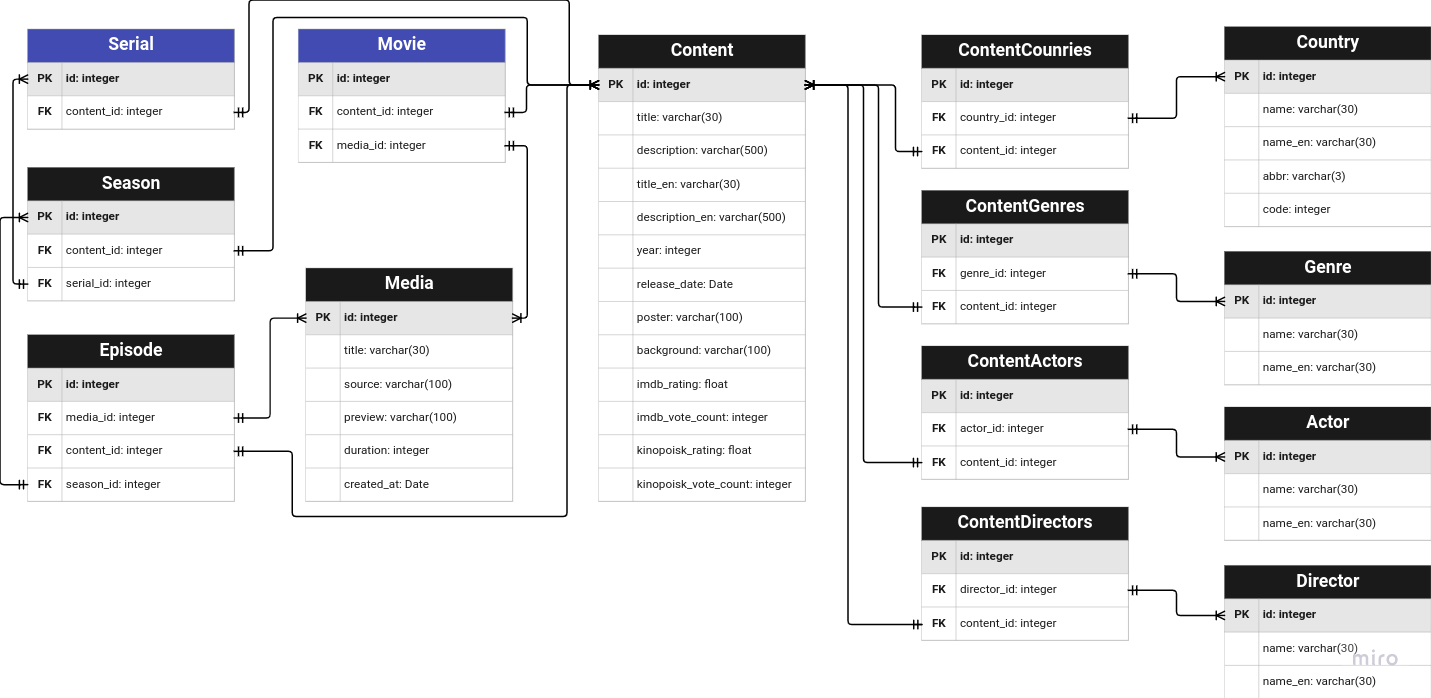
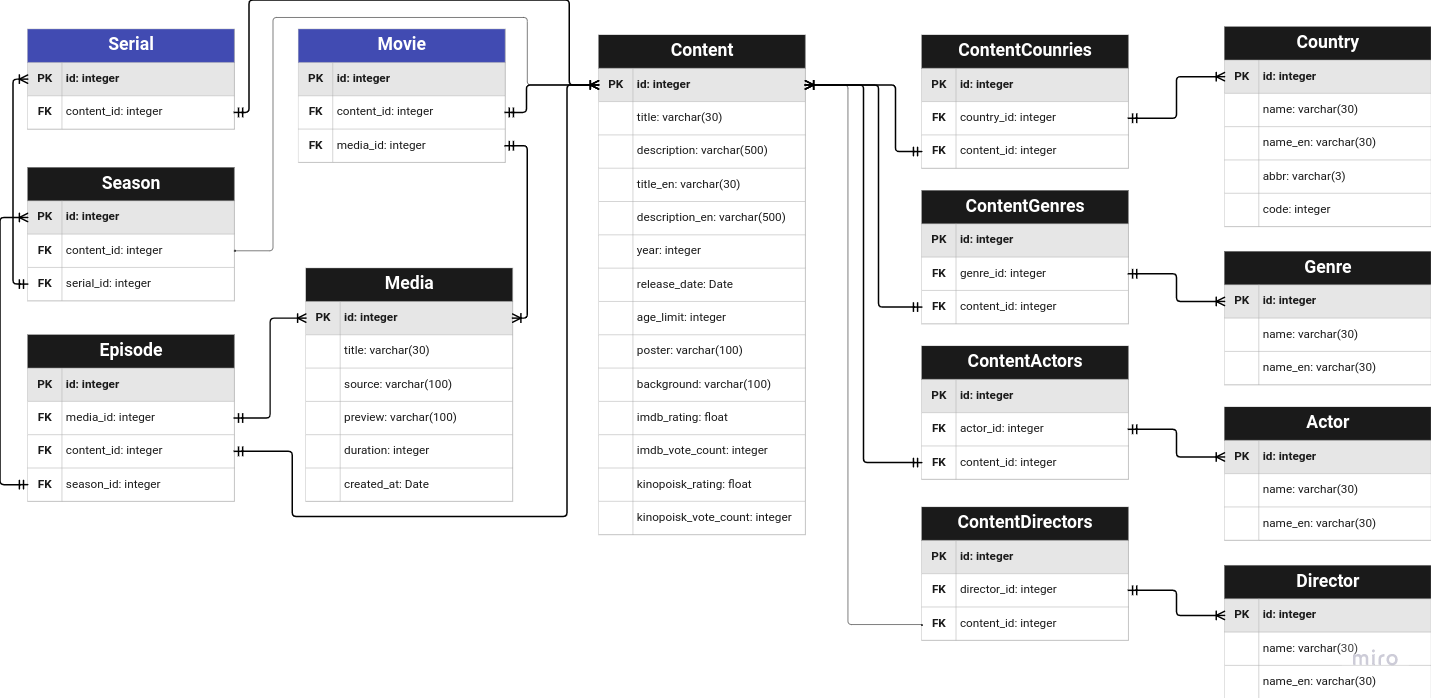
content api

diff --git a/docs/.vitepress/theme/components/Swagger.vue b/docs/.vitepress/theme/components/Swagger.vue
@@ -1,5 +1,5 @@
 <template>
-  <div class="swagger" :id="id"></div>
+  <div class='swagger' :id='id'></div>
 </template>
 
 <script setup>
@@ -17,6 +17,49 @@ onMounted(async () => {
   SwaggerUIBundle({
     dom_id: `#${props.id}`,
     url: props.url,
+    swagger: '2.0',
   });
 });
 </script>
+
+<style>
+.swagger-ui .opblock .opblock-summary-path {
+  max-width: 100%;
+  flex-grow: 1;
+}
+
+.swagger-ui .opblock .opblock-summary-description {
+  padding-right: 8px;
+  text-align: right;
+  overflow-wrap: anywhere;
+}
+.swagger-ui .information-container .info {
+  margin: 0;
+}
+
+.swagger-ui .information-container .info hgroup.main {
+  margin: 0;
+}
+
+.swagger-ui .scheme-container {
+  padding: 0 0 15px 0;
+  box-shadow: none;
+  margin: 0;
+}
+
+.swagger-ui .information-container .info .title {
+  font-size: 22px;
+}
+
+.swagger-ui .information-container .info small {
+  top: 0;
+  padding: 4px 6px;
+  height: fit-content;
+}
+
+.swagger-ui .information-container .info small pre {
+  font-size: 12px;
+  line-height: 12px;
+  top: 0;
+}
+</style>

diff --git a/docs/.vitepress/config.js b/docs/.vitepress/config.js
@@ -50,6 +50,9 @@ module.exports = {
           text: 'Content API',
           items: [
             { text: 'API', link: '/backend/api/content-api/' },
+            { text: 'Content types', link: '/backend/api/content-api/content-types' },
+            { text: 'Movie', link: '/backend/api/content-api/movie' },
+            { text: 'Serial', link: '/backend/api/content-api/serial' },
             { text: 'OpenAPI. Swagger', link: '/backend/api/content-api/open-api' },
           ]
         },

diff --git a/docs/backend/api/content-api/serial.md b/docs/backend/api/content-api/serial.md
@@ -1,0 +1,79 @@
+# Content API. Serial
+
+##
+
+### Serial response:
+```
+{
+  id: string,
+  contentType: MediaContentType,
+  
+  // Content info fields
+  title: string,
+  description: string,
+  title_en: string,
+  description_en: string,
+  year: number,
+  release_date: Date,
+  age_limit: number,
+  countries: Country[],
+  actors: Actor[],
+  directors: Director[],
+  genres: Genre[],
+  poster: string,
+  background: string,
+  
+  // Rating fields
+  imdb_rating: number,
+  imdb_vote_count: number,
+  kinopoisk_rating: number,
+  kinopoisk_vote_count: number,
+  
+  seasons: Season[],
+}
+```
+
+### Season response:
+```
+{
+  id: string,
+  contentType: MediaContentType,
+  
+  // Content info fields. Same as for serial
+  title: string,
+  title_en: string,
+  poster: string,
+  background: string,
+  
+  // Other fields are not required
+  ...
+  
+  // Rating fields. Same as for serial. Are not required
+  ... 
+  
+  episodes: Episode[],
+}
+```
+
+### Episode response:
+```
+{
+  id: string,
+  contentType: MediaContentType,
+  
+  // Content info fields. Same as for serial
+  title: string,
+  title_en: string,
+  
+  // Other fields are not required
+  ...
+  
+  // Rating fields. Same as for serial. Are not required
+  ... 
+  
+  // Media source fields
+  source: string,
+  preview: string,
+  duration: number,
+}
+```

diff --git a/docs/backend/api/content-api/content-types.md b/docs/backend/api/content-api/content-types.md
@@ -1,0 +1,21 @@
+# Content API. Content types
+
+## Types of media content:
+- `Movie` - content consisting of a single video file with a duration of **~5 minutes or more**.
+- `Serial` - content consisting of one or more seasons. **Does not have a video source**.
+- `Season` - content consisting of one or more episodes. **Does not have a video source**.
+- `Episode` - content consisting of a single video file with a duration of **~5 min or more**. It is 
+   part of the `season`.
+- `Moment` - content representing a clipping from a `movie` or `episode` and consisting of a single video file lasting 
+   from **a few seconds to ~5 minutes**. Can be created by the user.
+
+### Code:
+```
+enum MediaContentType {
+  MOVIE,
+  SERIAL,
+  SEASON,
+  EPISODE",
+  MOMENT
+}
+```

diff --git a/docs/backend/api/content-api/movie.md b/docs/backend/api/content-api/movie.md
@@ -1,0 +1,35 @@
+# Content API. Movie
+
+## Response:
+```
+{
+  id: string,
+  contentType: MediaContentType,
+  
+  // Content info fields
+  title: string,
+  description: string,
+  title_en: string,
+  description_en: string,
+  year: number,
+  release_date: Date,
+  age_limit: number,
+  countries: Country[],
+  actors: Actor[],
+  directors: Director[],
+  genres: Genre[],
+  poster: string,
+  background: string,
+  
+  // Rating fields
+  imdb_rating: number,
+  imdb_vote_count: number,
+  kinopoisk_rating: number,
+  kinopoisk_vote_count: number,
+  
+  // Media source fields
+  source: string,
+  preview: string,
+  duration: number,
+}
+```

diff --git a/docs/backend/api/auth-api/open-api.md b/docs/backend/api/auth-api/open-api.md
@@ -4,4 +4,4 @@ layout: doc
 
 # Auth API. Swagger
 
-<Swagger id="auth_api" url="https://api.darktheater.net/auth/docs" />
+<Swagger id="auth_api" url="https://api.darktheater.net/auth/openapi.json" />
